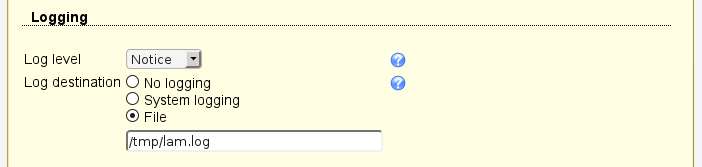
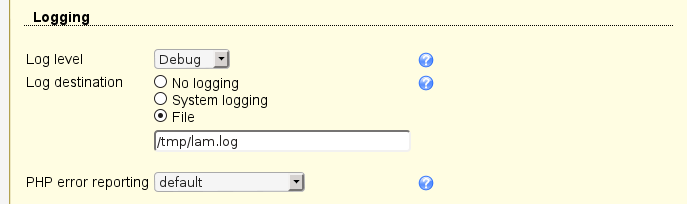
set PHP error reporting to E_ALL & ~E_NOTICE by default

diff --git a/lam/templates/config/mainmanage.php b/lam/templates/config/mainmanage.php
@@ -174,6 +174,7 @@ if (isset($_POST['submitFormData'])) {
 	if (isLAMProVersion()) {
 		$cfg->mailEOL = $_POST['mailEOL'];
 	}
+	$cfg->errorReporting = $_POST['errorReporting'];
 	// save settings
 	if (isset($_POST['submit'])) {
 		$cfg->save();
@@ -371,6 +372,14 @@ elseif ($cfg->logDestination == 'SYSLOG') {
 $loggingTable->addElement(new htmlTableExtendedRadio(_("Log destination"), 'logDestination', $destinationOptions, $destinationSelected, '240'), true);
 $loggingTable->addElement(new htmlOutputText(''));
 $loggingTable->addElement(new htmlInputField('logFile', $destinationPath), true);
+$loggingTable->addElement(new htmlSpacer(null, '10px'), true);
+$errorLogOptions = array(
+	_('PHP system setting') => LAMCfgMain::ERROR_REPORTING_SYSTEM,
+	_('default') => LAMCfgMain::ERROR_REPORTING_DEFAULT
+);
+$errorLogSelect = new htmlTableExtendedSelect('errorReporting', $errorLogOptions, array($cfg->errorReporting), _('PHP error reporting'), '244');
+$errorLogSelect->setHasDescriptiveElements(true);
+$loggingTable->addElement($errorLogSelect, true);
 $container->addElement($loggingTable, true);
 $container->addElement(new htmlSpacer(null, '10px'), true);
 
